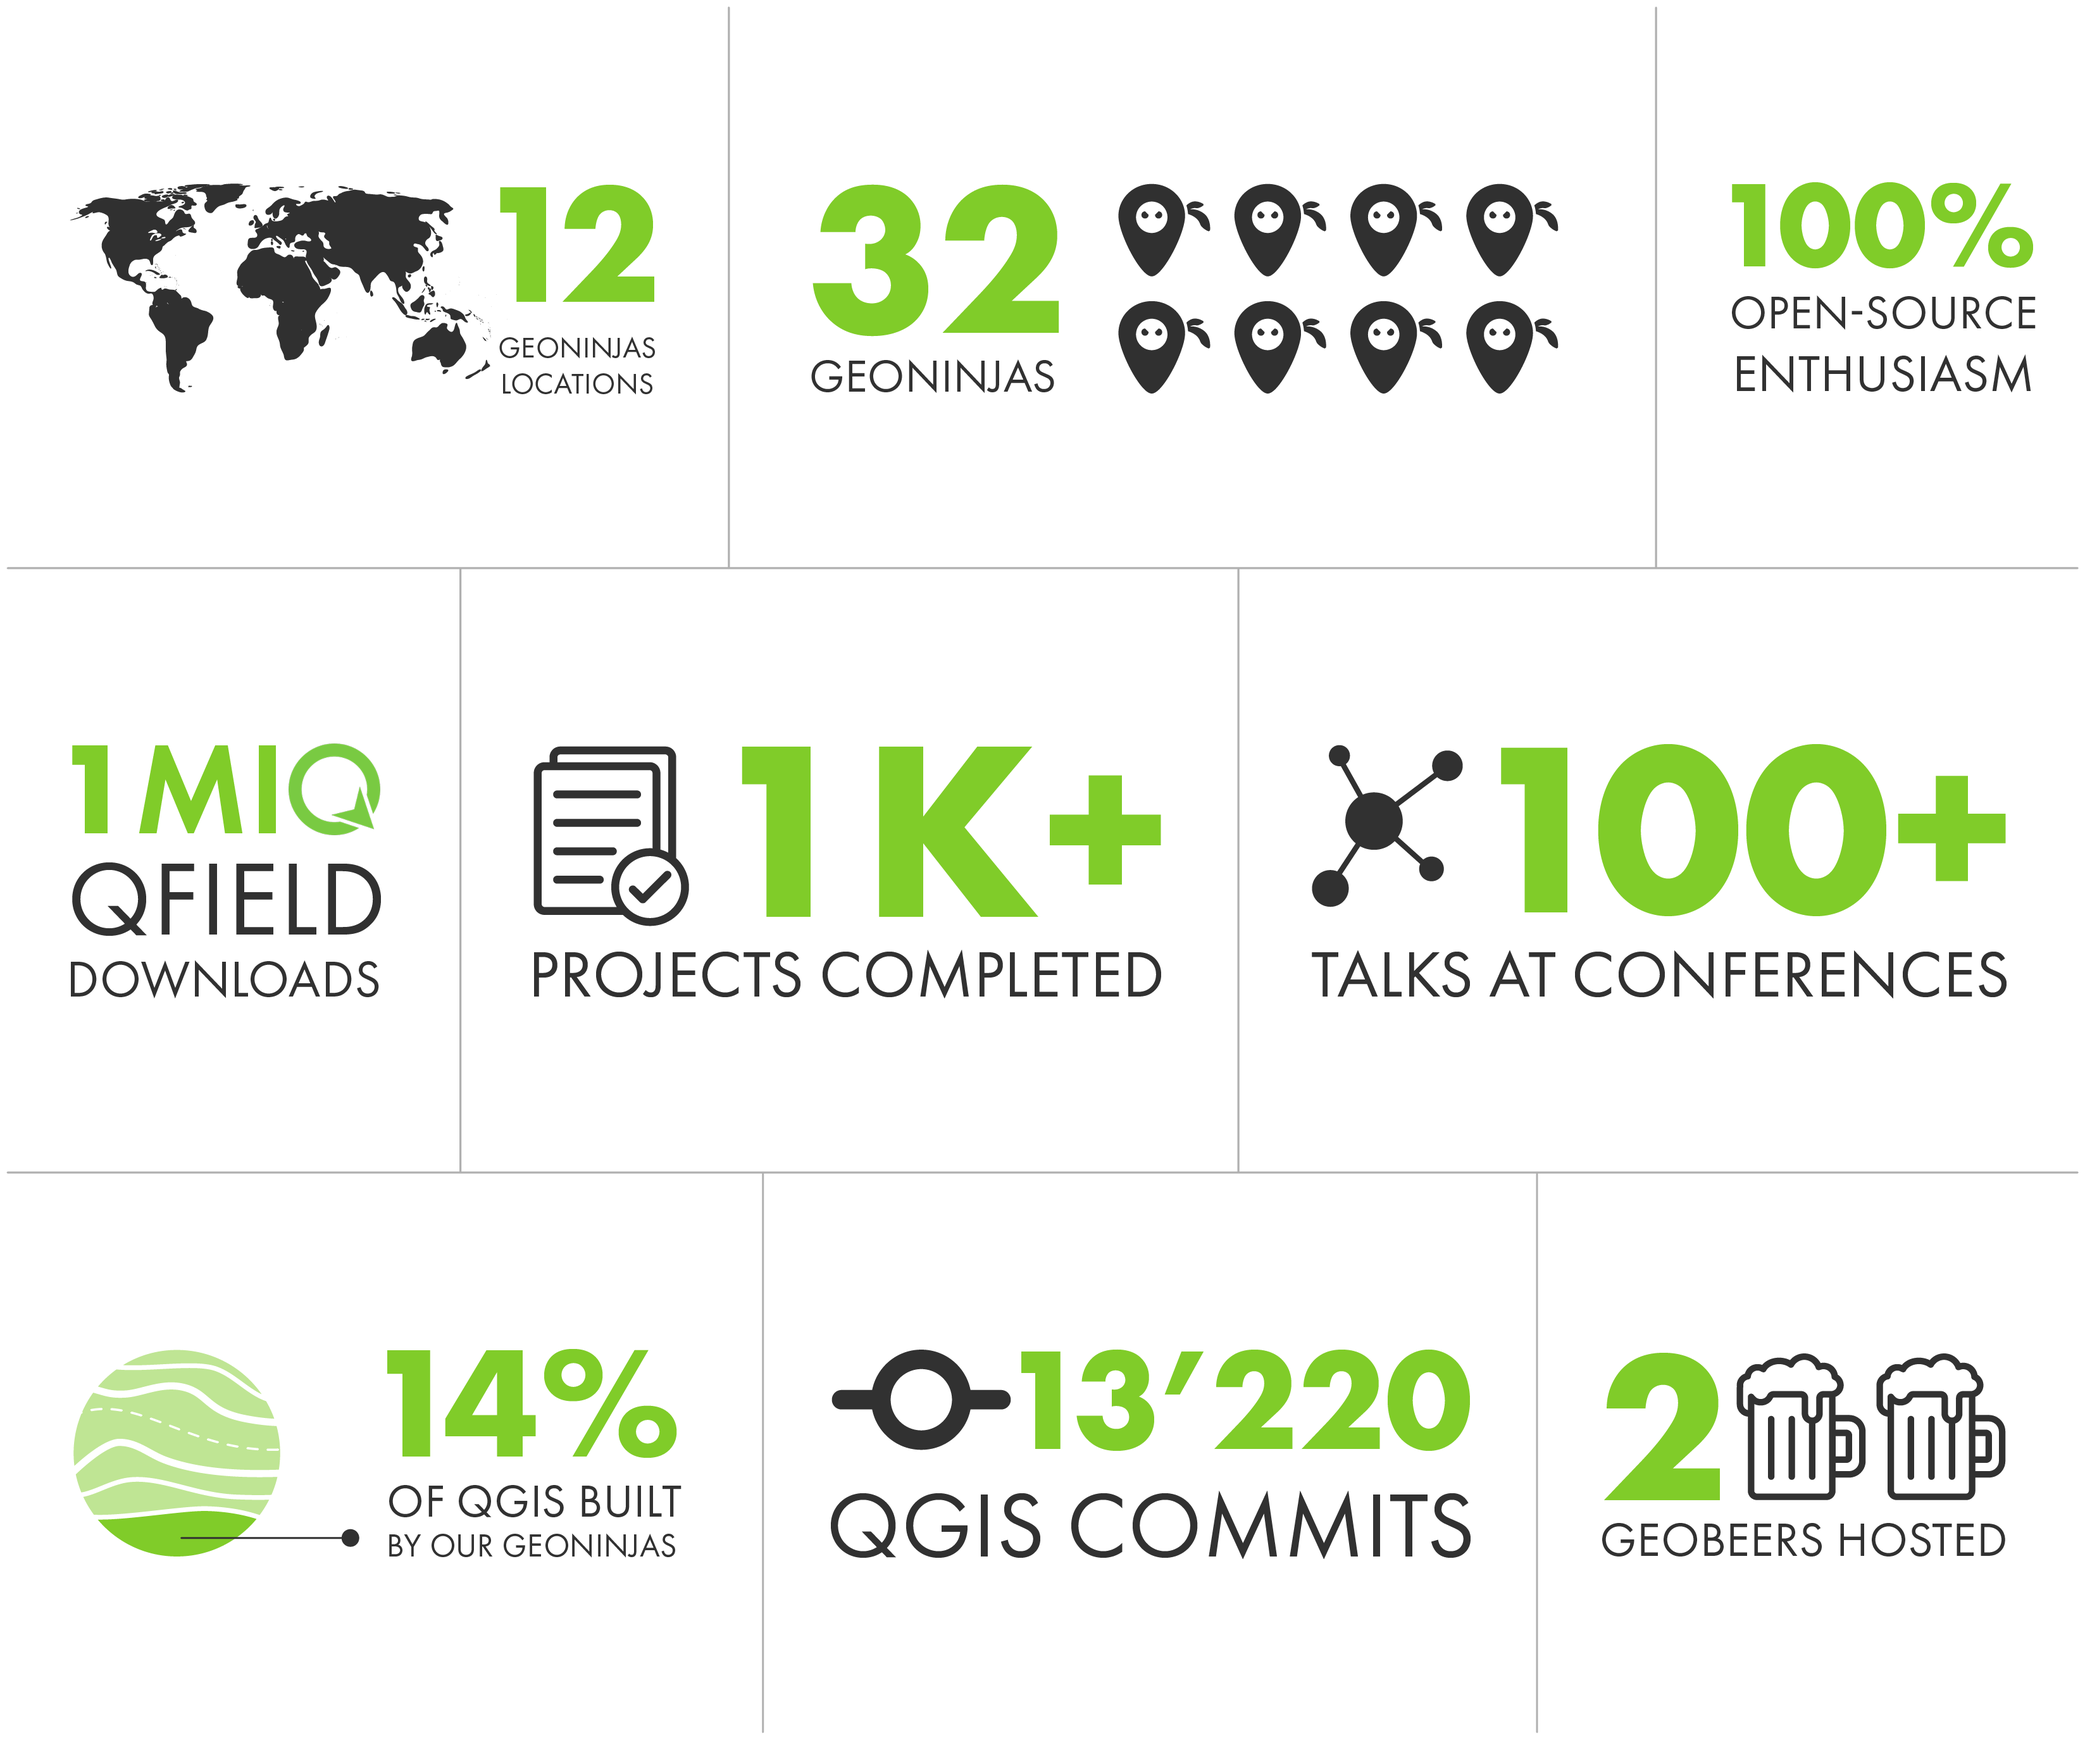
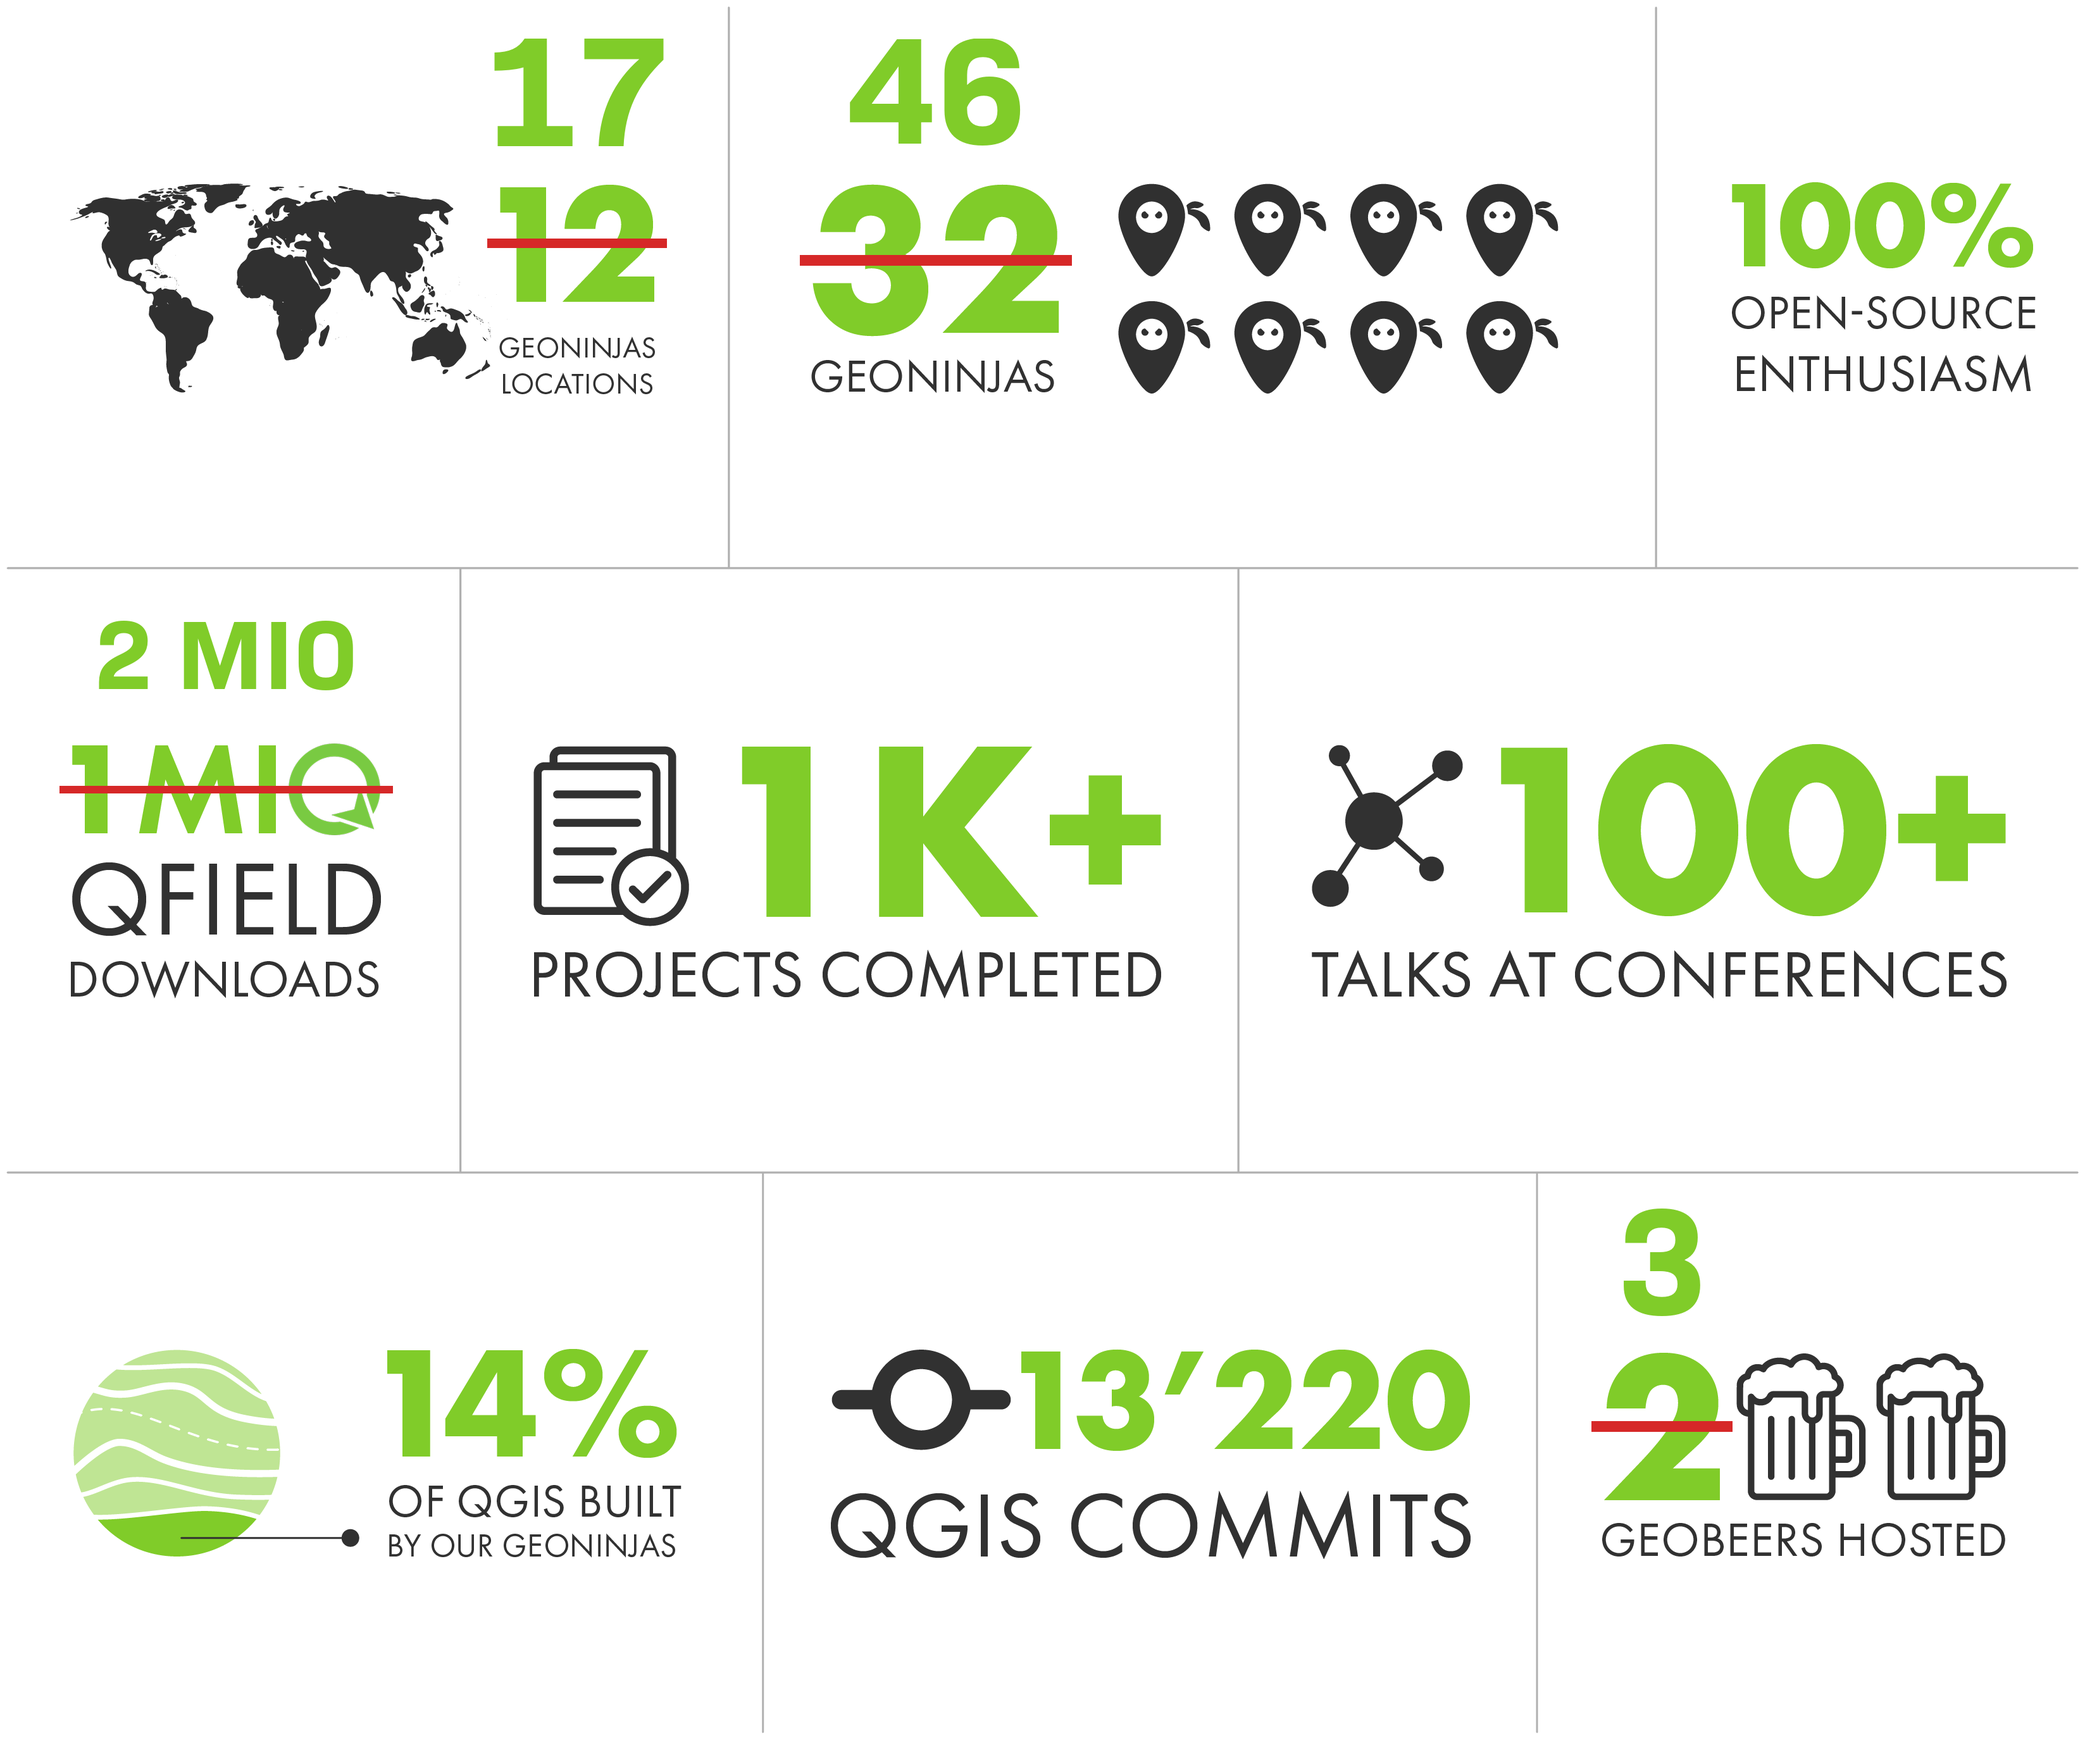
Update from https://github.com/opengisch/teaching-and-talks/commit/7b975c21fe3b141d6fed8977144984d26d83c593

diff --git a/teaching-qfield-plugins-workshop/workshop-presentation-es.html b/teaching-qfield-plugins-workshop/workshop-presentation-es.html
@@ -935,18 +935,18 @@ Item {
 <p>¿Qué necesitamos?</p>
 <ul class="contains-task-list">
 <li class="task-list-item">
-<p><input class="task-list-item-checkbox" disabled="" type="checkbox" id="task-item-2369675"><label class="task-list-item-label" for="task-item-2369675"> 1) API call (open-meteo.com)</label></p>
+<p><input class="task-list-item-checkbox" disabled="" type="checkbox" id="task-item-937603"><label class="task-list-item-label" for="task-item-937603"> 1) API call (open-meteo.com)</label></p>
 <ul class="contains-task-list">
-<li class="task-list-item"><input class="task-list-item-checkbox" disabled="" type="checkbox" id="task-item-8298278"><label class="task-list-item-label" for="task-item-8298278"> Build a URL (to call the API) from the web site</label></li>
-<li class="task-list-item"><input class="task-list-item-checkbox" disabled="" type="checkbox" id="task-item-5001929"><label class="task-list-item-label" for="task-item-5001929"> Call the API via XMLHttpRequest</label></li>
-<li class="task-list-item"><input class="task-list-item-checkbox" disabled="" type="checkbox" id="task-item-926293"><label class="task-list-item-label" for="task-item-926293"> Translate API response into image / description</label></li>
+<li class="task-list-item"><input class="task-list-item-checkbox" disabled="" type="checkbox" id="task-item-4327485"><label class="task-list-item-label" for="task-item-4327485"> Build a URL (to call the API) from the web site</label></li>
+<li class="task-list-item"><input class="task-list-item-checkbox" disabled="" type="checkbox" id="task-item-4336640"><label class="task-list-item-label" for="task-item-4336640"> Call the API via XMLHttpRequest</label></li>
+<li class="task-list-item"><input class="task-list-item-checkbox" disabled="" type="checkbox" id="task-item-5613177"><label class="task-list-item-label" for="task-item-5613177"> Translate API response into image / description</label></li>
 </ul>
 </li>
 <li class="task-list-item">
-<p><input class="task-list-item-checkbox" disabled="" type="checkbox" id="task-item-6636052"><label class="task-list-item-label" for="task-item-6636052"> 2) Plugin</label></p>
+<p><input class="task-list-item-checkbox" disabled="" type="checkbox" id="task-item-8660526"><label class="task-list-item-label" for="task-item-8660526"> 2) Plugin</label></p>
 <ul class="contains-task-list">
-<li class="task-list-item"><input class="task-list-item-checkbox" disabled="" type="checkbox" id="task-item-369168"><label class="task-list-item-label" for="task-item-369168"> Get location via button (from previous exercises)</label></li>
-<li class="task-list-item"><input class="task-list-item-checkbox" disabled="" type="checkbox" id="task-item-4346542"><label class="task-list-item-label" for="task-item-4346542"> Call the API from the plugin</label></li>
+<li class="task-list-item"><input class="task-list-item-checkbox" disabled="" type="checkbox" id="task-item-1893951"><label class="task-list-item-label" for="task-item-1893951"> Get location via button (from previous exercises)</label></li>
+<li class="task-list-item"><input class="task-list-item-checkbox" disabled="" type="checkbox" id="task-item-2644450"><label class="task-list-item-label" for="task-item-2644450"> Call the API from the plugin</label></li>
 </ul>
 </li>
 </ul>

diff --git a/talk-qfield-presentation/connecting-the-dots.html b/talk-qfield-presentation/connecting-the-dots.html
@@ -96,9 +96,20 @@
     
         <section >
             
-            <h2>WHAT DO</h2>
-<h2>WE DO?</h2>
+            <h2>SOME</h2>
+<h2>NUMBERS?</h2>
 <img src="assets/dots/somenumbers.png" alt="whatdowedo" class="vertical">
+            </section>
+    
+
+
+
+    
+        <section >
+            
+            <h2>CONNECTING</h2>
+<h2>THE DOTS</h2>
+<img class="vertical" src="assets/dots/connectingthedots.png" alt="connectingthedots">
             </section>
     
 
@@ -110,6 +121,8 @@
             <h2>IN THE FIELD</h2>
 <h2>QField</h2>
 <img src="assets/dots/qfield.jpg" alt="qfield">
+<h4>The field app. Collect, edit and sync geodata on any device, online or off.</h4>
+
             </section>
     
 
@@ -134,30 +147,9 @@
             <h2>ON THE DESKTOP</h2>
 <h2>QGIS</h2>
 <img src="assets/dots/qgis.png" alt="qgis">
-            </section>
-    
-
-
-
-    
-    <section>
-        <section >
-            <h2>ON THE WEB</h2>
-<h2>GeoGirafe, the viewer</h2>
-<img src="assets/dots/geogirafe.png" alt="geogirafe">
+<h4>The desktop GIS. Free, open source, and where most projects begin.</h4>
 
             </section>
-        
-            <section >
-                <h2>BEHIND IT,</h2>
-<h2>GEORAMA</h2>
-<img src="assets/dots/georama.png" alt="georama">
-<h4>Publish QGIS projects with layer-level auth. Georama launches in a month.</h4>
-
-            </section>
-        
-
-    </section>
     
 
 
@@ -165,9 +157,23 @@
     
         <section >
             
-            <h2>CONNECTING</h2>
-<h2>THE DOTS</h2>
-<img class="vertical" src="assets/dots/connectingthedots.png" alt="connectingthedots">
+            <h2>ON THE WEB - Viewer</h2>
+<h2>GeoGirafe</h2>
+<img src="assets/dots/geogirafe.png" alt="geogirafe">
+<h4>The web viewer. Open and explore QGIS projects straight in the browser.</h4>
+
+            </section>
+    
+
+
+
+    
+        <section >
+            
+            <h2>BEHIND IT</h2>
+<h2>GEORAMA</h2>
+<img src="assets/dots/georama.png" alt="georama">
+<h4>Cloud native publish QGIS projects with layer- and feature-level auth.</h4>
 
             </section>
     
@@ -189,11 +195,11 @@
             
             <h2>HOW?</h2>
 <ul>
-<li>Support the open source you rely on</li>
-<li>Community pays back</li>
+<li>Support the open source we rely on</li>
 <li>Sustainability is not magic. It’s a loop.</li>
 <li>(Good) business models = enablers, not enemies</li>
-<li>Monetise convenience, not freedom</li>
+<li>Monetise convenience, not freedom
+<img src="assets/dots/sponsor.png" alt="sponsor"></li>
 </ul>
 
             </section>
